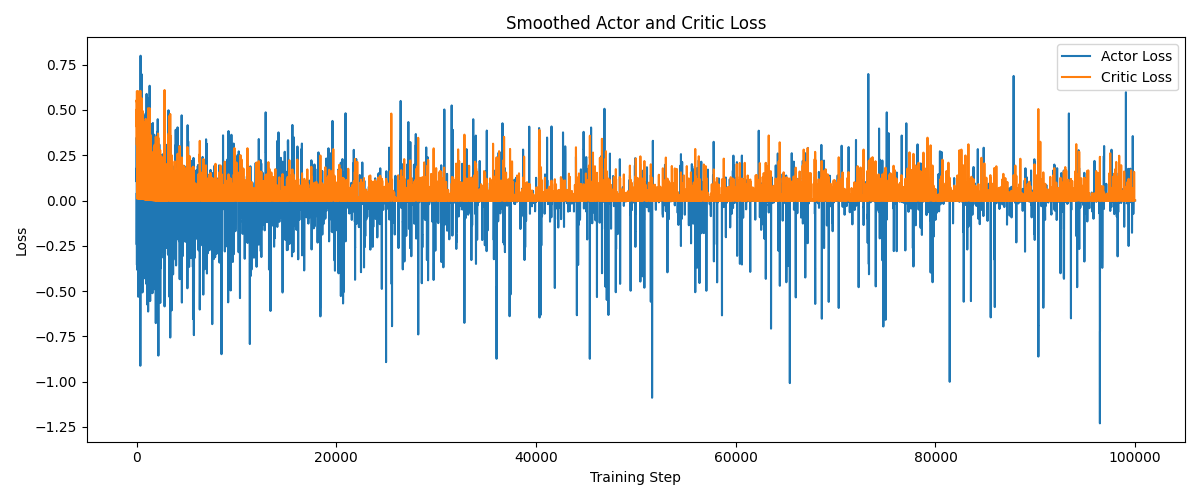
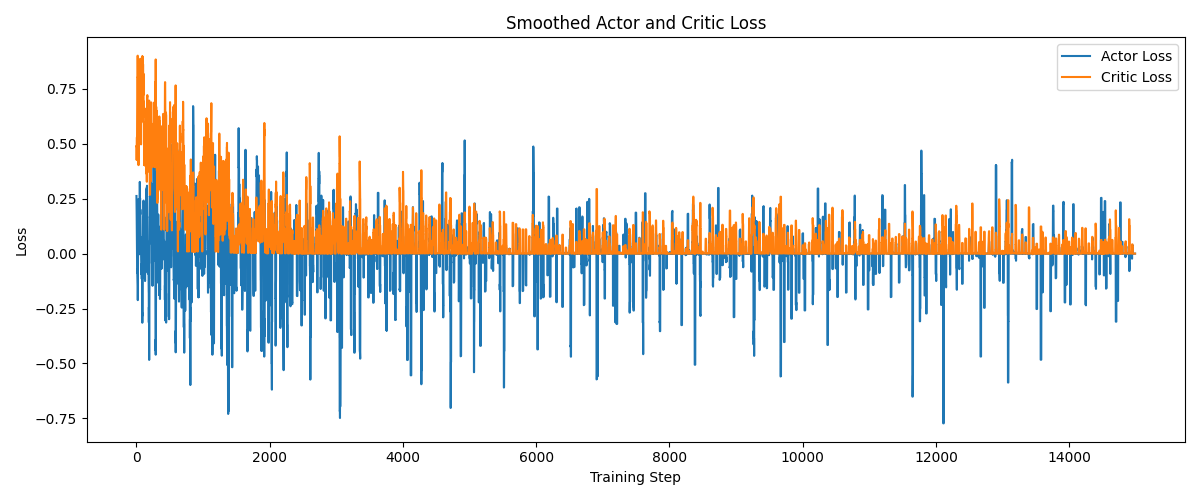
Tuning A2C hyperparams, faster conv/perf

diff --git a/Main.py b/Main.py
@@ -4,17 +4,36 @@ import torch
 import torch.nn as nn
 import torch.optim as optim
 import matplotlib.pyplot as plt
-import seaborn as sns
+from collections import deque
 
-# Constants
+# ================================
+# Configuration Constants
+# ================================
+
+# Environment Constants
 TOTAL_PRBS = 100
 URLLC_QUOTA = 30
 EMBB_QUOTA = 70
-TRAFFIC_TYPES = ['URLLC', 'eMBB']
-GAMMA = 0.99
-LR = 0.001
 
-# Environment class
+# Traffic Types
+TRAFFIC_TYPES = ['URLLC', 'eMBB']
+
+# A2C Hyperparameters
+GAMMA = 0.95
+LR = 0.001
+BATCH_SIZE = 16  # Reduced batch size for faster training
+MEMORY_SIZE = 5000  # Reduced memory size for faster training
+TARGET_UPDATE = 10
+EPISODES = 300
+STEPS_PER_EPISODE = 50
+EPSILON_START = 0.9
+EPSILON_END = 0.05
+EPSILON_DECAY = 100  # Faster epsilon decay for more exploration early on
+
+# ================================
+# Environment
+# ================================
+
 class RANEnv:
     def __init__(self):
         self.reset()
@@ -22,6 +41,7 @@ class RANEnv:
     def reset(self):
         self.urllc_usage = 0
         self.embb_usage = 0
+        self.total_prbs = TOTAL_PRBS
         self.state = self._get_state()
         return self.state
 
@@ -29,8 +49,8 @@ class RANEnv:
         return np.array([
             self.urllc_usage / TOTAL_PRBS,
             self.embb_usage / TOTAL_PRBS,
-            1.0,
-            1.0
+            1.0,  # Default SLA preservation for URLLC
+            1.0   # Default SLA preservation for eMBB
         ], dtype=np.float32)
 
     def step(self, action, traffic_type):
@@ -75,114 +95,170 @@ class RANEnv:
         next_state = self._get_state()
         return next_state, reward, done, admitted, blocked, sla_violated, traffic_type
 
-# Actor-Critic networks
+# ================================
+# A2C Networks: Actor and Critic
+# ================================
+
 class Actor(nn.Module):
-    def __init__(self, state_dim, action_dim):
+    def __init__(self, state_size, action_size):
         super(Actor, self).__init__()
-        self.fc = nn.Sequential(
-            nn.Linear(state_dim, 64),
-            nn.ReLU(),
-            nn.Linear(64, action_dim),
-            nn.Softmax(dim=-1)
-        )
+        self.fc1 = nn.Linear(state_size, 16)  # Reduced number of neurons
+        self.fc2 = nn.Linear(16, action_size)  # Outputs probability distribution
 
     def forward(self, x):
-        return self.fc(x)
+        x = torch.relu(self.fc1(x))
+        return torch.softmax(self.fc2(x), dim=-1)  # Output action probabilities
 
 class Critic(nn.Module):
-    def __init__(self, state_dim):
+    def __init__(self, state_size):
         super(Critic, self).__init__()
-        self.fc = nn.Sequential(
-            nn.Linear(state_dim, 64),
-            nn.ReLU(),
-            nn.Linear(64, 1)
-        )
+        self.fc1 = nn.Linear(state_size, 16)  # Reduced number of neurons
+        self.fc2 = nn.Linear(16, 1)  # Value of the state
 
     def forward(self, x):
-        return self.fc(x)
+        x = torch.relu(self.fc1(x))
+        return self.fc2(x)  # Output state value
 
-# Helper function
-def smooth_curve(data, window_size=10):
-    if len(data) < window_size:
-        return data
-    return np.convolve(data, np.ones(window_size)/window_size, mode='valid')
+# ================================
+# Utility Functions
+# ================================
 
-# Training
-def train_a2c(episodes=500, max_steps=100):
+def smooth(data, window=10):
+    return np.convolve(data, np.ones(window)/window, mode='valid')
+
+# ================================
+# Training Loop
+# ================================
+
+def train_a2c(episodes=EPISODES):
     env = RANEnv()
-    state_dim = len(env.reset())
-    action_dim = 2
+    state_size = len(env.reset())
+    action_size = 2  # Two possible actions: admit or reject
 
-    actor = Actor(state_dim, action_dim)
-    critic = Critic(state_dim)
-    actor_optim = optim.Adam(actor.parameters(), lr=LR)
-    critic_optim = optim.Adam(critic.parameters(), lr=LR)
+    actor = Actor(state_size, action_size)
+    critic = Critic(state_size)
+    optimizer = optim.Adam(list(actor.parameters()) + list(critic.parameters()), lr=LR)
 
-    actor_losses, critic_losses = [], []
-    episode_returns = []
+    reward_history = []
+    actor_loss_history = []
+    critic_loss_history = []
+    urllc_block_history = []
+    embb_block_history = []
+    urllc_sla_pres = []
+    embb_sla_pres = []
+    urllc_usage_hist = []
+    embb_usage_hist = []
 
     for episode in range(episodes):
         state = env.reset()
-        total_reward = 0
+        episode_return = 0  # Track the return for the episode
+        urllc_blocks = 0
+        embb_blocks = 0
+        urllc_sla_preserved = 0
+        embb_sla_preserved = 0
+        urllc_total_requests = 0
+        embb_total_requests = 0
 
-        for t in range(max_steps):
-            state_tensor = torch.tensor(state, dtype=torch.float32).unsqueeze(0)
-            probs = actor(state_tensor)
-            dist = torch.distributions.Categorical(probs)
-            action = dist.sample().item()
+        actor_loss_epoch = 0
+        critic_loss_epoch = 0
 
+        for t in range(STEPS_PER_EPISODE):
             traffic_type = random.choice(TRAFFIC_TYPES)
-            next_state, reward, done, _, _, _, _ = env.step(action, traffic_type)
+            if traffic_type == 'URLLC':
+                urllc_total_requests += 1
+            else:
+                embb_total_requests += 1
 
-            next_state_tensor = torch.tensor(next_state, dtype=torch.float32).unsqueeze(0)
-            reward_tensor = torch.tensor([reward], dtype=torch.float32)
+            # Select action using the Actor network
+            state_tensor = torch.tensor(state).float().unsqueeze(0)
+            action_probs = actor(state_tensor)
+            action = np.random.choice(action_size, p=action_probs.detach().numpy().squeeze())
 
-            value = critic(state_tensor)
-            next_value = critic(next_state_tensor)
-            advantage = reward_tensor + GAMMA * next_value - value
+            next_state, reward, done, admitted, blocked, sla_violated, t_type = env.step(action, traffic_type)
 
-            actor_loss = -dist.log_prob(torch.tensor(action)) * advantage.detach()
+            if blocked:
+                if t_type == 'URLLC': urllc_blocks += 1
+                if t_type == 'eMBB': embb_blocks += 1
+            if not sla_violated:
+                if t_type == 'URLLC': urllc_sla_preserved += 1
+                if t_type == 'eMBB': embb_sla_preserved += 1
+
+            # Compute advantage
+            state_value = critic(state_tensor)
+            next_state_value = critic(torch.tensor(next_state).float().unsqueeze(0))
+            advantage = reward + GAMMA * next_state_value - state_value
+
+            # Update Actor and Critic
+            actor_loss = -torch.log(action_probs.squeeze(0)[action]) * advantage.detach()
             critic_loss = advantage.pow(2)
 
-            actor_optim.zero_grad()
-            actor_loss.backward()
-            actor_optim.step()
+            optimizer.zero_grad()
+            (actor_loss + critic_loss).mean().backward()
+            optimizer.step()
 
-            critic_optim.zero_grad()
-            critic_loss.backward()
-            critic_optim.step()
+            # Track losses
+            actor_loss_epoch += actor_loss.item()
+            critic_loss_epoch += critic_loss.item()
 
-            actor_losses.append(actor_loss.item())
-            critic_losses.append(critic_loss.item())
             state = next_state
-            total_reward += reward
+            episode_return += reward  # Add reward to the episode return
 
-        episode_returns.append(total_reward)
-        print(f"Episode {episode + 1}, Return: {total_reward:.2f}")
+        reward_history.append(episode_return)  # Append the episode return
+        actor_loss_history.append(actor_loss_epoch / STEPS_PER_EPISODE)  # Track average actor loss per episode
+        critic_loss_history.append(critic_loss_epoch / STEPS_PER_EPISODE)  # Track average critic loss per episode
+        urllc_block_history.append(urllc_blocks)
+        embb_block_history.append(embb_blocks)
+        urllc_sla_pres.append(urllc_sla_preserved / urllc_total_requests if urllc_total_requests > 0 else 0)
+        embb_sla_pres.append(embb_sla_preserved / embb_total_requests if embb_total_requests > 0 else 0)
+        urllc_usage_hist.append(env.urllc_usage)
+        embb_usage_hist.append(env.embb_usage)
 
-    # Plot losses
-    plt.figure(figsize=(12, 5))
-    plt.plot(smooth_curve(actor_losses), label='Actor Loss')
-    plt.plot(smooth_curve(critic_losses), label='Critic Loss')
-    plt.title('Smoothed Actor and Critic Loss')
-    plt.xlabel('Training Step')
-    plt.ylabel('Loss')
-    plt.legend()
+        print(f"Episode {episode+1}: Episode Return = {episode_return:.2f}, "
+              f"URLLC SLA Ratio = {urllc_sla_pres[-1]:.2f}, eMBB SLA Ratio = {embb_sla_pres[-1]:.2f}")
+
+    # Plotting
+    fig, axs = plt.subplots(3, 2, figsize=(14, 10))
+
+    axs[0, 0].plot(smooth(reward_history))
+    axs[0, 0].set_title("Smoothed Episode Return")
+
+    axs[0, 1].plot(smooth(urllc_block_history), label="URLLC")
+    axs[0, 1].plot(smooth(embb_block_history), label="eMBB")
+    axs[0, 1].set_title("Smoothed Block Rate")
+    axs[0, 1].legend()
+
+    axs[1, 0].plot(smooth(urllc_sla_pres), label="URLLC")
+    axs[1, 0].plot(smooth(embb_sla_pres), label="eMBB")
+    axs[1, 0].set_ylim(0, 1.05)
+    axs[1, 0].set_title("Smoothed SLA Preservation Ratio")
+    axs[1, 0].legend()
+
+    axs[1, 1].axis('off')
+
+    axs[2, 0].plot(smooth(urllc_usage_hist))
+    axs[2, 0].set_title("Smoothed URLLC PRB Usage")
+
+    axs[2, 1].plot(smooth(embb_usage_hist))
+    axs[2, 1].set_title("Smoothed eMBB PRB Usage")
+
     plt.tight_layout()
-    plt.savefig("a2c_losses.png")
+
+    # Plot actor and critic losses with positive and negative values
+    fig2, ax2 = plt.subplots(figsize=(10, 5))
+    ax2.plot(actor_loss_history, label="Actor Loss", color='blue')
+    ax2.plot(critic_loss_history, label="Critic Loss", color='red')
+    ax2.set_title("Actor and Critic Losses (Positive and Negative)")
+    ax2.legend()
+
+    plt.tight_layout()
+
+    # Save the plots
+    plt.savefig("performance_plots.png")
     plt.show()
 
-    # Plot returns
-    plt.figure(figsize=(12, 5))
-    plt.plot(smooth_curve(episode_returns, window_size=20), label='Smoothed Episode Return')
-    plt.xlabel('Episode')
-    plt.ylabel('Return')
-    plt.title('Smoothed Episode Return Over Time')
-    plt.grid(True)
-    plt.legend()
-    plt.tight_layout()
-    plt.savefig("a2c_episode_returns.png")
-    plt.show()
+# ================================
+# Entry Point
+# ================================
 
 if __name__ == "__main__":
-    train_a2c(episodes=1000, max_steps=100)
+    train_a2c()
